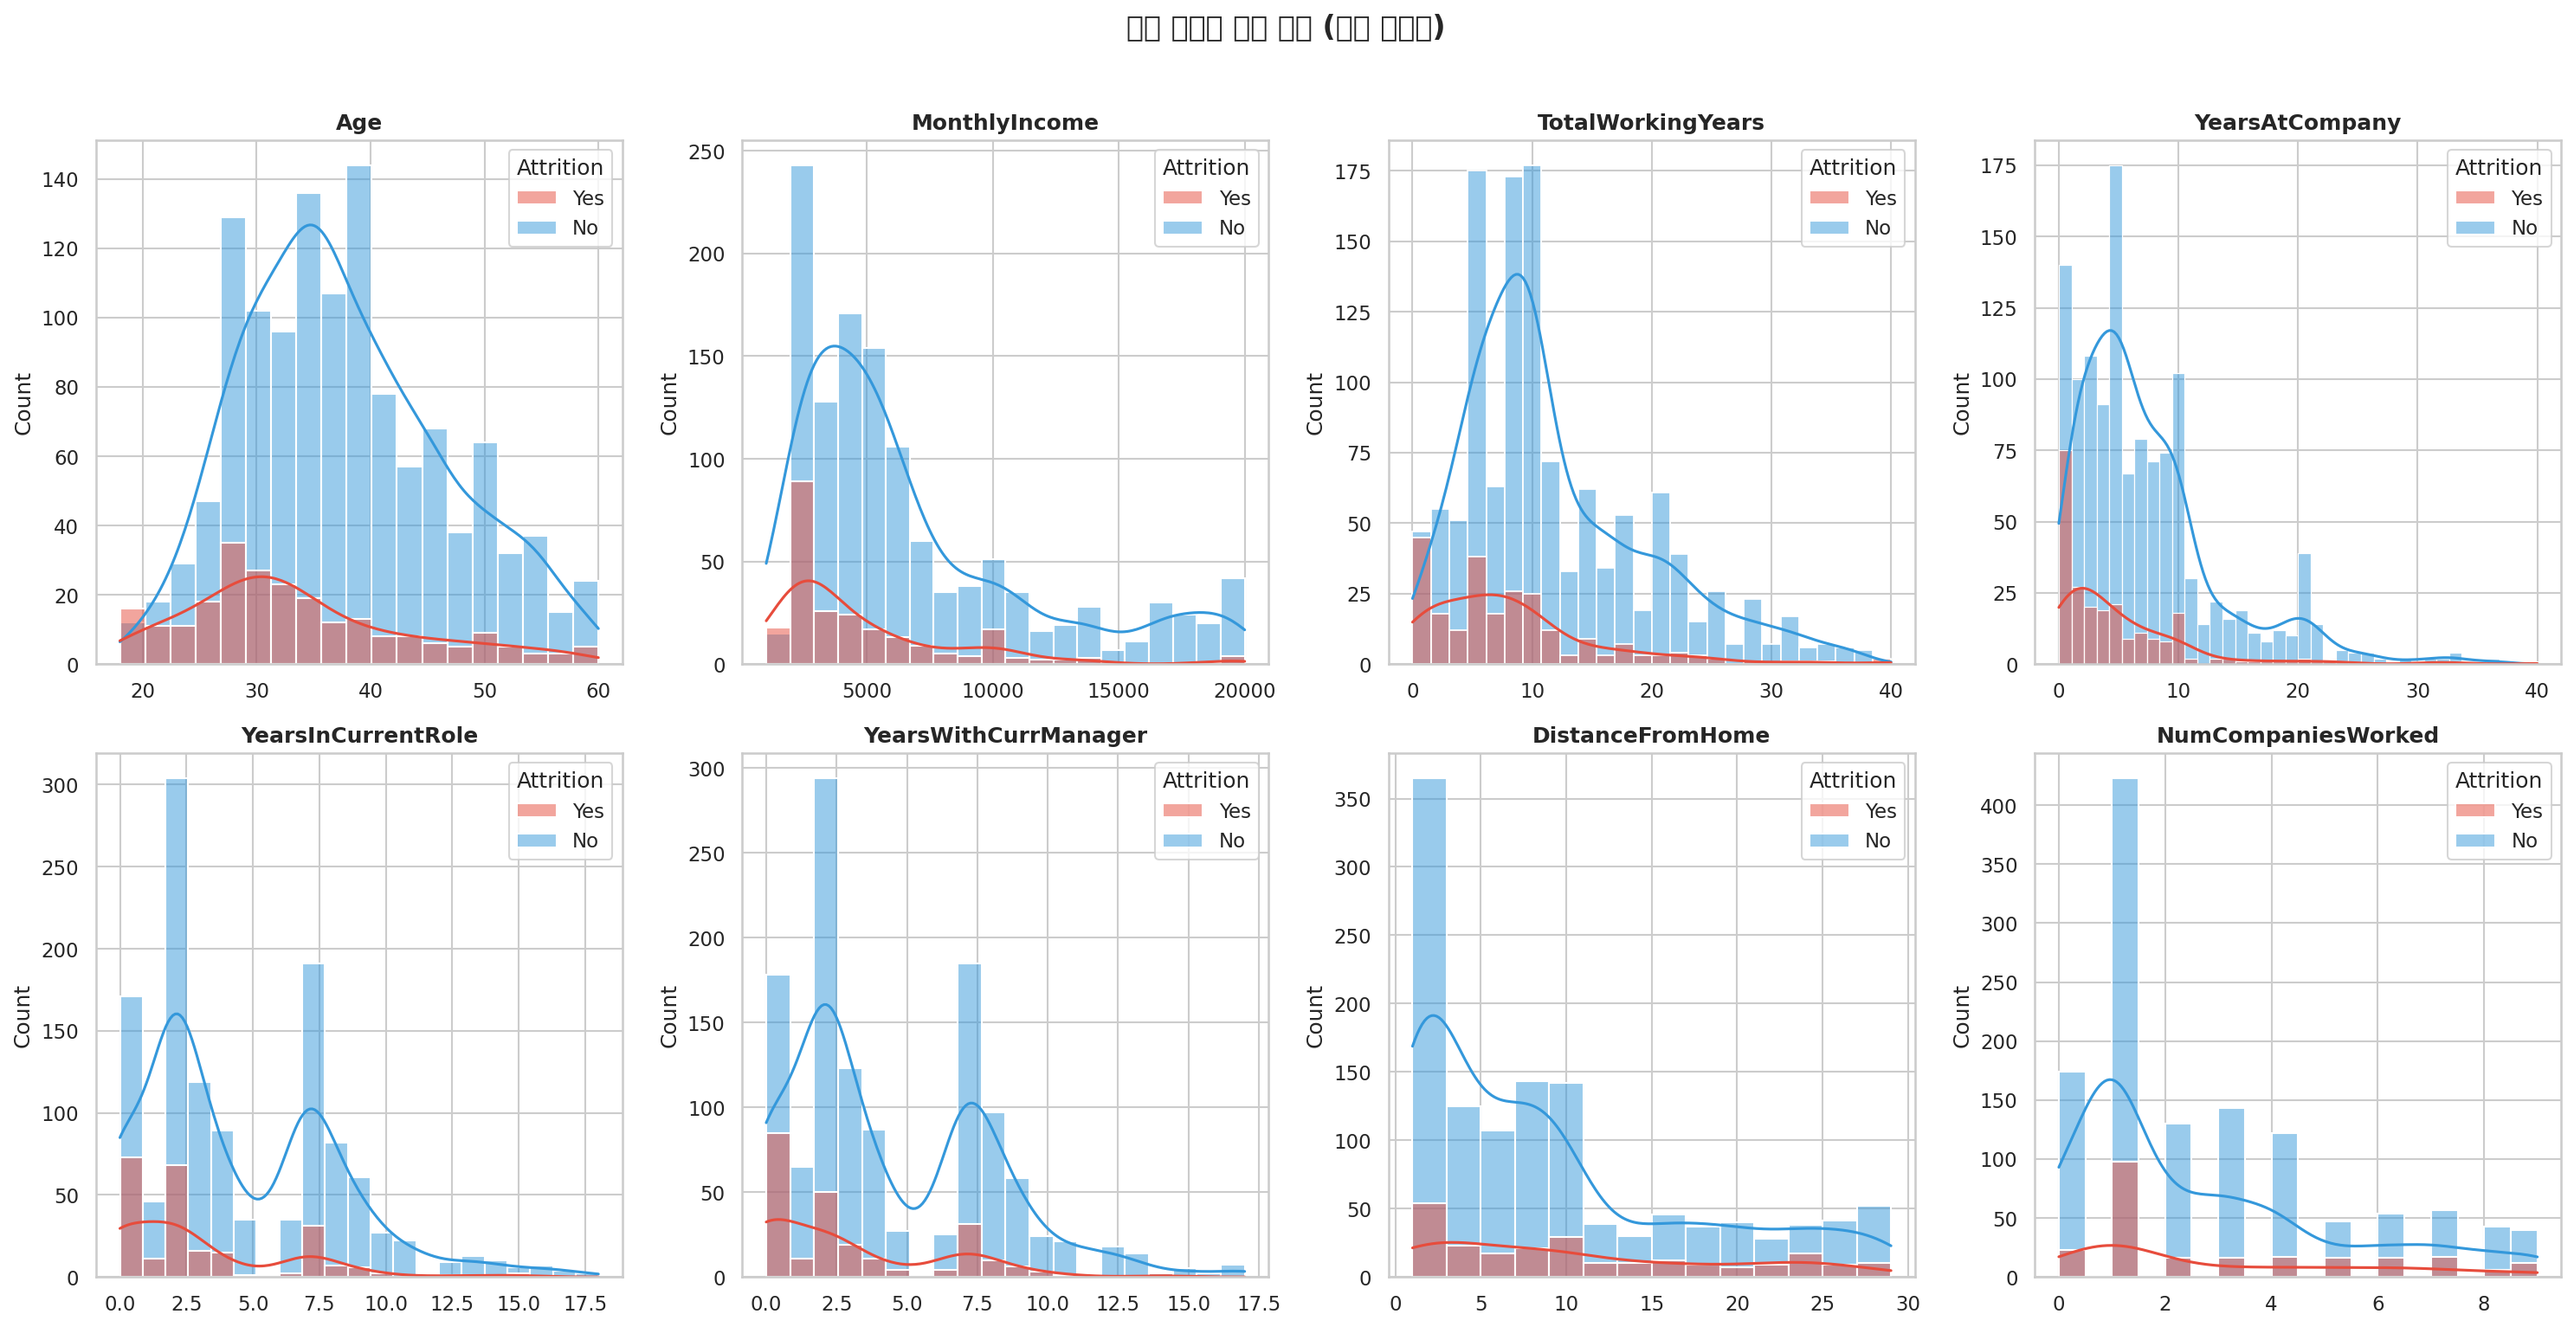
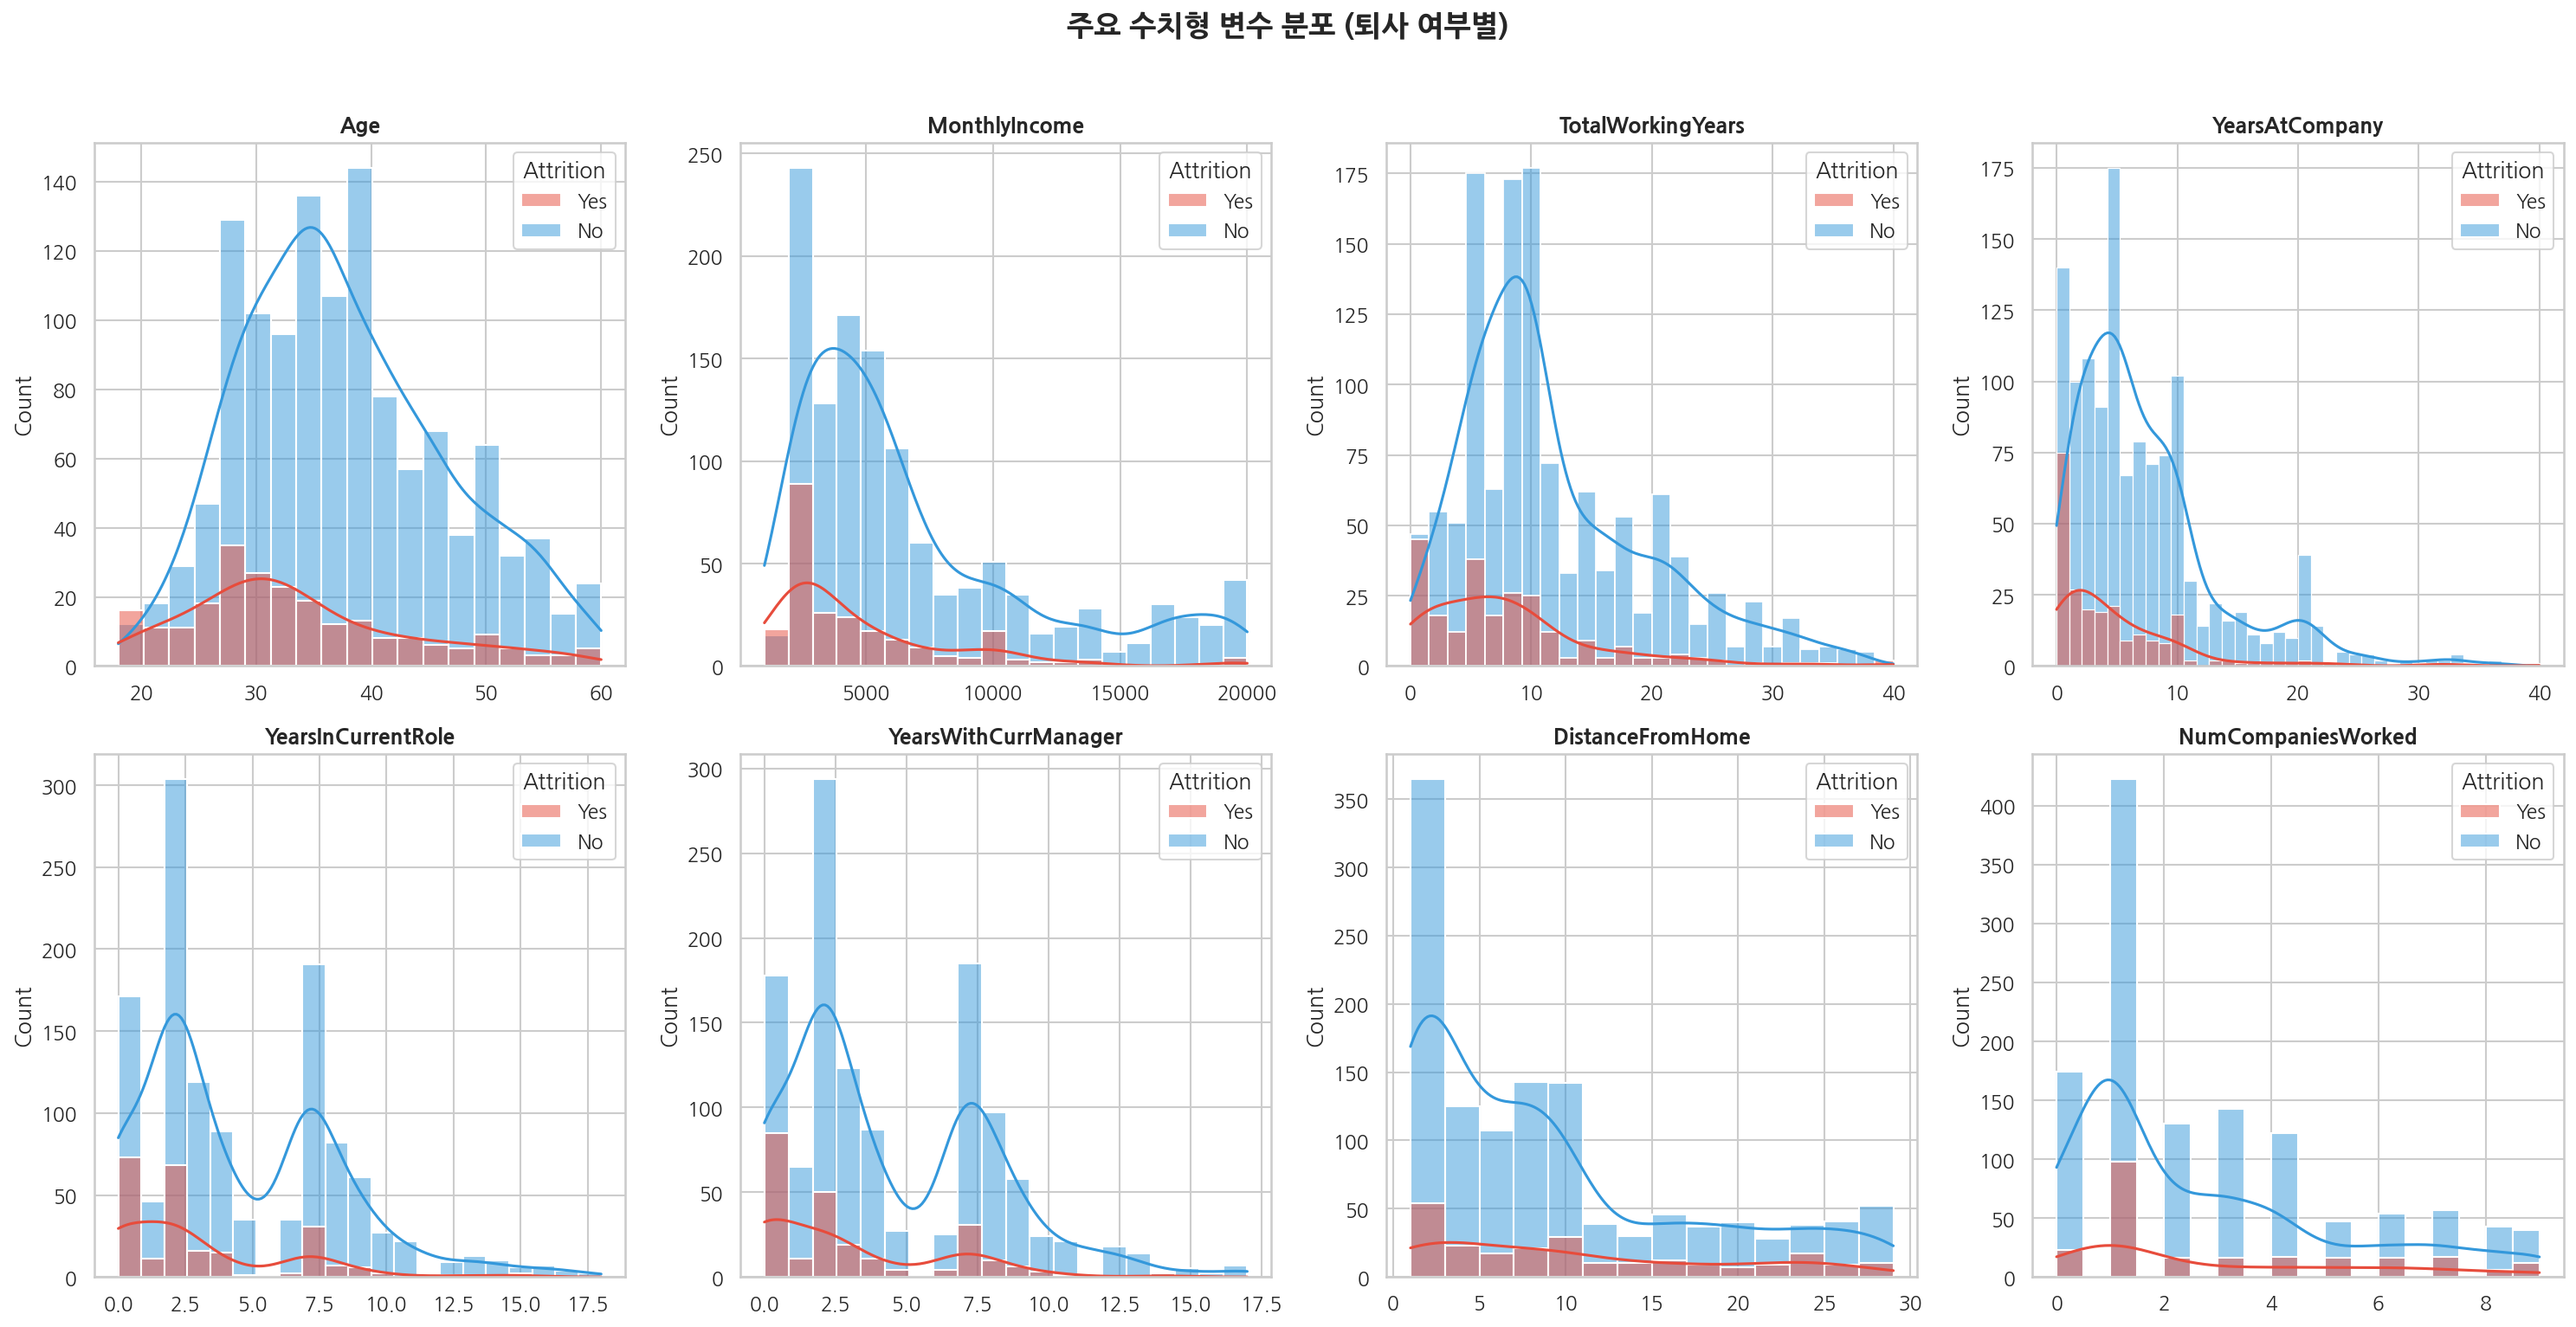
Improve notebook plotting compatibility and Korean font rendering

diff --git a/src/plot_style.py b/src/plot_style.py
@@ -1,0 +1,64 @@
+"""Plot style helpers for cross-platform Korean text rendering."""
+
+from __future__ import annotations
+
+import warnings
+
+import matplotlib.pyplot as plt
+from matplotlib import font_manager
+import seaborn as sns
+
+
+KOREAN_FONT_CANDIDATES = [
+    "Apple SD Gothic Neo",
+    "AppleGothic",
+    "Malgun Gothic",
+    "NanumGothic",
+    "NanumBarunGothic",
+    "Noto Sans CJK KR",
+    "Noto Sans KR",
+    "Source Han Sans KR",
+]
+
+
+def _pick_korean_font() -> str | None:
+    available_fonts = {font.name for font in font_manager.fontManager.ttflist}
+    for font_name in KOREAN_FONT_CANDIDATES:
+        if font_name in available_fonts:
+            return font_name
+    return None
+
+
+def _enable_korean_font_support() -> None:
+    """Try to register Korean fonts shipped by optional helper packages."""
+    try:
+        # This package configures matplotlib to use bundled Nanum fonts.
+        import koreanize_matplotlib  # noqa: F401
+    except Exception:
+        return
+
+
+def apply_plot_style(use_seaborn_theme: bool = False, figsize: tuple[int, int] = (12, 6)) -> str | None:
+    """Apply matplotlib defaults and choose a Korean-capable font if available."""
+    _enable_korean_font_support()
+    selected_font = _pick_korean_font()
+
+    plt.rcParams["figure.figsize"] = figsize
+    plt.rcParams["axes.unicode_minus"] = False
+
+    if selected_font:
+        plt.rcParams["font.family"] = selected_font
+        if use_seaborn_theme:
+            sns.set_theme(style="whitegrid", font=selected_font)
+    else:
+        plt.rcParams["font.family"] = "DejaVu Sans"
+        if use_seaborn_theme:
+            sns.set_theme(style="whitegrid")
+        # Keep notebooks readable by silencing repeated missing-glyph warnings.
+        warnings.filterwarnings(
+            "ignore",
+            message=r"Glyph .* missing from font\(s\) DejaVu Sans",
+            category=UserWarning,
+        )
+
+    return selected_font

diff --git a/notebooks/01_eda.py b/notebooks/01_eda.py
@@ -29,12 +29,10 @@ import seaborn as sns
 from scipy import stats
 
 from src.data_loader import load_raw_data
+from src.plot_style import apply_plot_style
 
 # 시각화 기본 설정
-plt.rcParams['figure.figsize'] = (12, 6)
-plt.rcParams['font.family'] = 'Apple SD Gothic Neo'
-plt.rcParams['axes.unicode_minus'] = False
-sns.set_theme(style='whitegrid', font='Apple SD Gothic Neo')
+apply_plot_style(use_seaborn_theme=True, figsize=(12, 6))
 
 # 색상 팔레트
 COLORS = {'Yes': '#E74C3C', 'No': '#3498DB'}
@@ -95,7 +93,16 @@ axes[0].pie(counts, labels=['재직 (No)', '퇴사 (Yes)'], autopct='%1.1f%%',
 axes[0].set_title('퇴사 여부 비율', fontsize=15, fontweight='bold')
 
 # 퇴사 건수 (막대)
-sns.countplot(data=df, x='Attrition', palette=COLORS, ax=axes[1], order=['No', 'Yes'])
+sns.countplot(
+    data=df,
+    x='Attrition',
+    hue='Attrition',
+    order=['No', 'Yes'],
+    hue_order=['No', 'Yes'],
+    palette=COLORS,
+    legend=False,
+    ax=axes[1],
+)
 for p in axes[1].patches:
     axes[1].annotate(f'{int(p.get_height())}명',
                      (p.get_x() + p.get_width() / 2., p.get_height()),
@@ -140,7 +147,17 @@ fig, axes = plt.subplots(2, 4, figsize=(20, 10))
 axes = axes.flatten()
 
 for i, col in enumerate(key_num_cols):
-    sns.boxplot(data=df, x='Attrition', y=col, palette=COLORS, ax=axes[i], order=['No', 'Yes'])
+    sns.boxplot(
+        data=df,
+        x='Attrition',
+        y=col,
+        hue='Attrition',
+        order=['No', 'Yes'],
+        hue_order=['No', 'Yes'],
+        palette=COLORS,
+        legend=False,
+        ax=axes[i],
+    )
     axes[i].set_title(col, fontsize=12, fontweight='bold')
     axes[i].set_xlabel('')
 

diff --git a/src/evaluation.py b/src/evaluation.py
@@ -12,6 +12,7 @@ from sklearn.metrics import (
     classification_report,
     ConfusionMatrixDisplay,
 )
+from src.plot_style import apply_plot_style
 
 
 def evaluate_model(y_true: np.ndarray, y_pred: np.ndarray, y_prob: np.ndarray | None = None) -> dict:
@@ -52,6 +53,7 @@ def plot_confusion_matrix(y_true: np.ndarray, y_pred: np.ndarray,
     if labels is None:
         labels = ['재직 (0)', '퇴사 (1)']
 
+    apply_plot_style(figsize=(6, 5))
     fig, ax = plt.subplots(figsize=(6, 5))
     cm = confusion_matrix(y_true, y_pred)
     disp = ConfusionMatrixDisplay(cm, display_labels=labels)

diff --git a/notebooks/04_insights.py b/notebooks/04_insights.py
@@ -39,11 +39,9 @@ import warnings
 warnings.filterwarnings('ignore')
 
 from src.data_loader import load_raw_data, PROCESSED_DIR
+from src.plot_style import apply_plot_style
 
-plt.rcParams['font.family'] = 'Apple SD Gothic Neo'
-plt.rcParams['axes.unicode_minus'] = False
-plt.rcParams['figure.figsize'] = (12, 6)
-sns.set_theme(style='whitegrid', font='Apple SD Gothic Neo')
+apply_plot_style(use_seaborn_theme=True, figsize=(12, 6))
 
 COLORS_RISK = {'고위험': '#E74C3C', '중위험': '#F39C12', '저위험': '#27AE60'}
 

diff --git a/notebooks/03_modeling.py b/notebooks/03_modeling.py
@@ -49,10 +49,9 @@ import joblib
 
 from src.data_loader import PROCESSED_DIR
 from src.evaluation import evaluate_model, plot_confusion_matrix
+from src.plot_style import apply_plot_style
 
-plt.rcParams['font.family'] = 'Apple SD Gothic Neo'
-plt.rcParams['axes.unicode_minus'] = False
-plt.rcParams['figure.figsize'] = (12, 6)
+apply_plot_style(figsize=(12, 6))
 
 RANDOM_STATE = 42
 CV = StratifiedKFold(n_splits=5, shuffle=True, random_state=RANDOM_STATE)

diff --git a/notebooks/02_preprocessing.py b/notebooks/02_preprocessing.py
@@ -40,9 +40,9 @@ from sklearn.model_selection import train_test_split
 from sklearn.preprocessing import StandardScaler, LabelEncoder
 
 from src.data_loader import load_raw_data, PROCESSED_DIR
+from src.plot_style import apply_plot_style
 
-plt.rcParams['font.family'] = 'Apple SD Gothic Neo'
-plt.rcParams['axes.unicode_minus'] = False
+apply_plot_style(figsize=(12, 6))
 
 # %matplotlib inline
 
